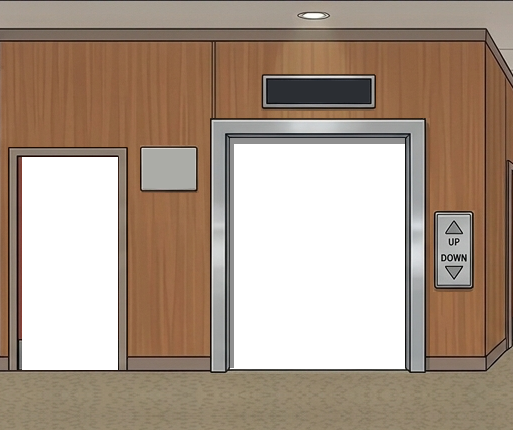
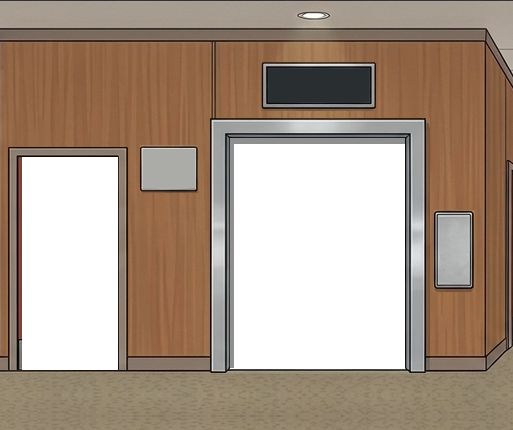
Smaller data attr, updown btn, lcd and 7seg style

Changed region(s): [[0.499, 0.1209, 0.7485, 0.2116], [0.8421, 0.514, 0.9045, 0.6651]]

diff --git a/www/index.html b/www/index.html
@@ -4,18 +4,32 @@
     <meta charset="UTF-8">
     <meta name="viewport" content="width=device-width, initial-scale=1.0">
     <title>Elevator</title>
+	<link rel="preconnect" href="https://fonts.googleapis.com">
+    <link rel="preconnect" href="https://fonts.gstatic.com" crossorigin>
+    <link href="https://fonts.googleapis.com/css2?family=Doto:wght@700&display=swap" rel="stylesheet">
     <link rel="stylesheet" href="style.css">
 </head>
 <body>
     <div class="building">
         <div id="cabin"></div>
         <div class="floor" id="floor1">
+            <div class="digits">
+            <ul>
+                <!-- Digits d0=left, d2=colon, d4=right -->
+                <!--li class="d0 segoff"><li class="d1 segoff"><li class="d3 segoff"><li class="d4 segoff">-->
+                <li data-7seg="00" class="d0 seg0"><li data-7seg="01" class="d0 seg1"><li data-7seg="02" class="d0 seg2"><li data-7seg="03" class="d0 seg3"><li data-7seg="04" class="d0 seg4"><li data-7seg="05" class="d0 seg5"><li data-7seg="06" class="d0 seg6"><li data-7seg="07" class="d0 seg7">
+                <li data-7seg="10" class="d1 seg0"><li data-7seg="11" class="d1 seg1"><li data-7seg="12" class="d1 seg2"><li data-7seg="13" class="d1 seg3"><li data-7seg="14" class="d1 seg4"><li data-7seg="15" class="d1 seg5"><li data-7seg="16" class="d1 seg6"><li data-7seg="17" class="d1 seg7">
+                <li data-7seg="20" class="d2 seg0">
+                <li data-7seg="30" class="d3 seg0"><li data-7seg="31" class="d3 seg1"><li data-7seg="32" class="d3 seg2"><li data-7seg="33" class="d3 seg3"><li data-7seg="34" class="d3 seg4"><li data-7seg="35" class="d3 seg5"><li data-7seg="36" class="d3 seg6"><li data-7seg="37" class="d3 seg7">
+                <li data-7seg="40" class="d4 seg0"><li data-7seg="41" class="d4 seg1"><li data-7seg="42" class="d4 seg2"><li data-7seg="43" class="d4 seg3"><li data-7seg="44" class="d4 seg4"><li data-7seg="45" class="d4 seg5"><li data-7seg="46" class="d4 seg6"><li data-7seg="47" class="d4 seg7">
+            </ul>
+            </div>
             <div class="door left"></div>
             <div class="door right"></div>
             <div class="stair-door"></div>
             <div class="wall">
-                <a href="#" data-NeoPixel="2" class="callbtn up"  >Up</a>
-                <a href="#" data-NeoPixel="1" class="callbtn down">Down</a>
+                <a href="#" data-led-neo="2" class="callbtn up"  >Up</a>
+                <a href="#" data-led-neo="1" class="callbtn down">Down</a>
             </div>
         </div>
         <div class="floor" id="floor0">
@@ -23,7 +37,7 @@
             <div class="door right"></div>
             <div class="stair-door"></div>
             <div class="wall">
-                <a href="#" data-NeoPixel="9" class="callbtn up">Up</a>
+                <a href="#" data-led-neo="9" class="callbtn up">Up</a>
            </div>
         </div>
         <div class="floor" id="floor3">
@@ -31,8 +45,8 @@
             <div class="door right"></div>
             <div class="stair-door"></div>
             <div class="wall">
-                <a href="#" data-NeoPixel="15" class="callbtn up">Up</a>
-                <a href="#" data-NeoPixel="14" class="callbtn down">Down</a>
+                <a href="#" data-led-neo="15" class="callbtn up">Up</a>
+                <a href="#" data-led-neo="14" class="callbtn down">Down</a>
             </div>
         </div>
         <div class="floor" id="floor2">
@@ -40,8 +54,8 @@
             <div class="door right"></div>
             <div class="stair-door"></div>
             <div class="wall">
-                <a href="#" data-NeoPixel="13" class="callbtn up">Up</a>
-                <a href="#" data-NeoPixel="12" class="callbtn down">Down</a>
+                <a href="#" data-led-neo="13" class="callbtn up">Up</a>
+                <a href="#" data-led-neo="12" class="callbtn down">Down</a>
             </div>
         </div>
         <div class="floor" id="floor5">
@@ -50,7 +64,7 @@
             <div class="door right"></div>
             <div class="stair-door"></div>
             <div class="wall">
-                <a href="#" data-NeoPixel="18" class="callbtn down">Down</a>
+                <a href="#" data-led-neo="18" class="callbtn down">Down</a>
             </div>
         </div>
         <div class="floor" id="floor4">
@@ -58,30 +72,33 @@
             <div class="door right"></div>
             <div class="stair-door"></div>
             <div class="wall">
-                <a href="#" data-NeoPixel="17" class="callbtn up">Up</a>
-                <a href="#" data-NeoPixel="16" class="callbtn down">Down</a>
+                <a href="#" data-led-neo="17" class="callbtn up">Up</a>
+                <a href="#" data-led-neo="16" class="callbtn down">Down</a>
             </div>
         </div>
         <div class="panel">
-            <div class="screen"></div>
+            <div class="screen" data-lcd-backlight>
+                <p data-lcd-line="0"></p>
+                <p data-lcd-line="1"></p>
+            </div>
             <ul>
-                <!--  Key     data-Keypad
+                <!--  Key     data-pad
                     1 2 3 A |  0  1  2  3
                     4 5 6 B |  4  5  6  7
                     7 8 9 C |  8  9 10 11
                     * 0 # D | 12 13 14 15
                 -->
-                <li><a href="#" class="btn row0" data-NeoPixel="4" data-Keypad="4">3</a></li>
-                <li><a href="#" class="btn row0" data-NeoPixel="5" data-Keypad="5">4</a></li>
-                <li><a href="#" class="btn row1" data-NeoPixel="2" data-Keypad="1">1</a></li>
-                <li><a href="#" class="btn row1" data-NeoPixel="3" data-Keypad="2">2</a></li>
-                <li><a href="#" class="btn row2" data-NeoPixel="0" data-Keypad="13">-1</a></li>
-                <li><a href="#" class="btn row2" data-NeoPixel="1" data-Keypad="0">0</a></li>
+                <li><a href="#" class="btn row0" data-led-neo="4" data-pad="4">3</a></li>
+                <li><a href="#" class="btn row0" data-led-neo="5" data-pad="5">4</a></li>
+                <li><a href="#" class="btn row1" data-led-neo="2" data-pad="1">1</a></li>
+                <li><a href="#" class="btn row1" data-led-neo="3" data-pad="2">2</a></li>
+                <li><a href="#" class="btn row2" data-led-neo="0" data-pad="13">-1</a></li>
+                <li><a href="#" class="btn row2" data-led-neo="1" data-pad="0">0</a></li>
 
-                <li><a href="#" class="btn row3" data-NeoPixel="6" data-Keypad="7">&gt;&lt;</a></li>
-                <li><a href="#" class="btn row3" data-NeoPixel="7" data-Keypad="11">&lt;&gt;</a></li>
+                <li><a href="#" class="btn row3" data-led-neo="6" data-pad="7">&gt;&lt;</a></li>
+                <li><a href="#" class="btn row3" data-led-neo="7" data-pad="11">&lt;&gt;</a></li>
             </ul>
-            <a href="#" class="btnstop" data-NeoPixel="8" data-Keypad="15"></a>
+            <a href="#" class="btnstop" data-led-neo="8" data-pad="15"></a>
         </div>
     </div>
     <script>
@@ -103,7 +120,7 @@
         await window.wasmLoaded
         const wino = new Wino(Module, [
             new Keypad           (Module, PIN_KEYPAD_ROWS, PIN_KEYPAD_COLS),
-            new Adafruit_NeoPixel(Module, PIN_NEOPIXEL, (l, v) => Adafruit_NeoPixel.OnOff(l, v, NEOPIXEL_CSS))
+            new Adafruit_NeoPixel(Module, PIN_NEOPIXEL, (l, v) => Adafruit_NeoPixel.OnOff(l, v, NEOPIXEL_CSS), 'neo')
         ]);
 
         const FLOOR_COUNT = 6;

diff --git a/www/style.css b/www/style.css
@@ -91,28 +91,79 @@ a.callbtn {
     display: block;
     position: absolute;
     overflow: hidden;
-    left: 447px;
-    width: 14px;
-    height: 11px;
+    left: 440px;
+    width: 28px;
+    height: 30px;
+    color: transparent;
+    background-image: url('assets/updown.png');
+    background-repeat: no-repeat;
+}
+.callbtn.sel  , .callbtn:hover   { 
+    background-image: url('assets/updown-light.png'); 
+}
+.up   { top: 219px; }
+.down { top: 250px; background-position-y: -31px; }
+
+/* Digits */
+.digits {
+    position: absolute;
+    top: 69px;
+    left: 266px;
+    z-index: 1;
+}
+
+.digits ul {
+    display: block;
+    padding:0;
+    margin:0;
+    position: relative;
+}
+
+.digits li {
+    display: block;
+    position: absolute;
+    width: 23px;
+    height: 32px;
+    padding:0;
+    background-position-x: 23px;
+    background-image: url('assets/digits.png');
+    background-repeat: no-repeat;
+    list-style-type: none;
     color: transparent;
 }
-.up {
-    background-repeat: no-repeat;
-    top: 222px;
+
+.d0 { left: 0; }
+.d1 { left: 24px; }
+.d2 { left: 48px; }
+.d3 { left: 57px; }
+.d4 { left: 81px; }
+
+.d2.seg0 { 
+    width: 9px;
+    background-image: none;
 }
-.down {
-    background-repeat: no-repeat;
-    top: 267px;
+
+li.segoff { background-position-x: 0; }
+.seg0.sel { background-position-x: -23px; }
+.seg1.sel { background-position-x: -46px; }
+.seg2.sel { background-position-x: -69px; }
+.seg3.sel { background-position-x: -92px; }
+.seg4.sel { background-position-x: -115px; }
+.seg5.sel { background-position-x: -138px; }
+.seg6.sel { background-position-x: -161px; }
+.seg7.sel { background-position-x: -184px; }
+
+.d2.seg0.sel {
+    background-position-x: -207px;
 }
-.up.sel  , .up:hover   { background-image: url('assets/up.png'); }
-.down.sel, .down:hover { background-image: url('assets/down.png'); }
+
 
 /* Elevator control panel */
 
 .panel {
     z-index: 1;
     position: absolute;
-    left: 500px; top: calc(50% - 214px);
+    left: 480px; top: calc(40% - 214px);
     width: 166px;
     height: 478px;
     background-size: 166px 478px;
@@ -120,8 +171,24 @@ a.callbtn {
 }
 
 .screen {
-    width: 166px;
-    height: 96px;
+    width: 140px;
+    height: 64px;
+    padding: 32px 0 0 26px;
+}
+
+.screen p {
+    transform:scale(1,1.9); 
+    -webkit-transform:scale(1,1.9);
+    font-family: 'Doto', sans-serif;
+    color: #014;
+    font-size: 12px;
+    line-height: 25px;
+    margin: 0;
+    padding: 0;
+}
+
+.screen.backlight p {
+    color: #03E;
 }
 
 .backlight {

diff --git a/www/js/Adafruit_NeoPixel.js b/www/js/Adafruit_NeoPixel.js
@@ -1,16 +1,15 @@
 export default class Adafruit_NeoPixel
 {
-    #cmodule;
     #leds;
     
     constructor(cmodule, pin, changedCallback, dataSuffix) {
+        const dataPrefix = 'data-led'
         const dataAttr = dataSuffix 
-            ? `data-NeoPixel-${dataSuffix}` 
-            : 'data-NeoPixel'
+            ? `${dataPrefix}-${dataSuffix}` 
+            : $dataPrefix
 
         cmodule.Adafruit_NeoPixel ??= []
         cmodule.Adafruit_NeoPixel[pin] = this
-        this.#cmodule = cmodule
         this.#leds = []
         document.querySelectorAll(`*[${dataAttr}]`).forEach(e => {
             const index = parseInt(e.getAttribute(dataAttr))

diff --git a/www/js/Keypad.js b/www/js/Keypad.js
@@ -5,8 +5,11 @@ export default class Keypad
     #keyCount;
 
     constructor(cmodule, rows, cols, dataSuffix) {
+        const dataPrefix = 'data-pad'
         const id = JSON.stringify([rows, cols])
-        const dataAttr = dataSuffix ? `data-Keypad-${dataSuffix}` : 'data-Keypad'
+        const dataAttr = dataSuffix 
+            ? `${dataPrefix}-${dataSuffix}` 
+            : dataPrefix
 
         cmodule.Keypad ??= {}
         cmodule.Keypad[id] = this
